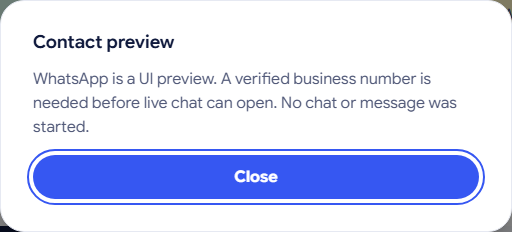
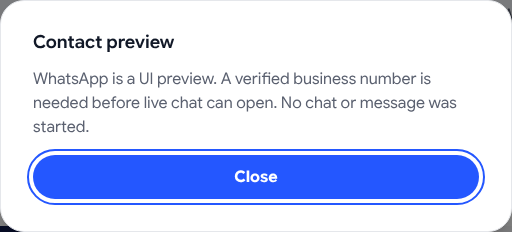
feat(site-1): align the Contact page with the Electric Blue home page
/contact keeps its layout, forms and preview actions, and now uses the
shared site header and footer, a breadcrumb, a home-style hero heading,
and a navy tracking panel that no longer stretches to the office card's
height. The title and meta description target "contact Canadian Plans"
searches, and "All FAQs" links to /faq. On this page the header chat
button jumps to the WhatsApp/phone/email options (SiteHeader gains
chatHref). verify-contact.mjs follows these changes, honours
AUDIT_ORIGIN/PLAYWRIGHT_CHROMIUM_PATH and passes on a production build.

Claude-Session: https://claude.ai/code/session_01R17s2TxKmriEMKu2RGu3yK

diff --git a/apps/site-1/content/contact.ts b/apps/site-1/content/contact.ts
@@ -1,11 +1,5 @@
 import type { CpButtonTone } from '@canadian-plans/ui/canadian-plans';
-import {
-  chromeContent,
-  componentAssets,
-  footerContent,
-  type ChromeContent,
-  type FooterContent,
-} from './components';
+import { componentAssets } from './components';
 
 export type ContactTopic = 'general' | 'sim' | 'mobile' | 'internet' | 'documents' | 'verification';
 export type ContactPreviewKind = 'whatsapp' | 'call' | 'directions';
@@ -22,11 +16,18 @@ interface ContactOption {
 /** Design copy and contact details are preview fixtures, pending business approval. */
 export const contactCopy = {
   previewOnly: true,
-  title: 'Contact & Help | Canadian Plans',
+  title: 'Contact Canadian Plans: WhatsApp, Phone, Email & Surrey Office',
+  description:
+    'Contact Canadian Plans by WhatsApp, phone or email, or visit our Surrey, BC office. Real advisors Monday to Saturday, 9am–9pm Pacific. Track your order without an account.',
   skip: 'Skip to main content',
+  breadcrumb: {
+    label: 'Breadcrumb',
+    separator: '/',
+    items: [{ label: 'Home', href: '/' }, { label: 'Contact' }],
+  },
   hero: {
-    eyebrow: 'Contact & help',
-    title: 'Talk to a real person.',
+    eyebrow: 'Contact Canadian Plans',
+    title: 'Talk to a real person',
     description:
       "No bots, no call-centre maze. You'll reach the same advisors who confirm every order, Mon–Sat, 9am–9pm Pacific.",
     trust: 'Authorized Rogers, Fido and Chatr dealer in Surrey, BC',
@@ -110,7 +111,7 @@ export const contactCopy = {
       { label: 'Change my install date', topic: 'internet' },
       { label: 'Update my documents', topic: 'documents' },
       { label: 'Is this call really from you?', topic: 'verification' },
-      { label: 'All FAQs', href: '/#faq' },
+      { label: 'All FAQs', href: '/faq' },
     ] satisfies readonly (
       { label: string; href: string } | { label: string; topic: ContactTopic }
     )[],
@@ -158,43 +159,4 @@ export const contactAssets = {
     height: 22,
     nodeId: '332:836',
   },
-};
-export const contactChrome: ChromeContent = {
-  ...chromeContent,
-  navigation: [
-    { label: 'Pre-arrival SIM', href: '/pre-arrival-sim' },
-    { label: 'Home Internet', href: '/home-internet' },
-    { label: 'Mobile Plans', href: '/mobile-plans' },
-    { label: 'Guides', href: '/#faq' },
-  ],
-  phone: { ...chromeContent.phone, href: '#contact-options' },
-  track: { ...chromeContent.track, href: '#track-order' },
-  contact: { ...chromeContent.contact, href: '#message-us' },
-  help: { ...chromeContent.help, href: '#quick-help' },
-  promoLink: { ...chromeContent.promoLink, href: '/pre-arrival-sim#plans' },
-};
-export const contactFooter: FooterContent = {
-  ...footerContent,
-  groups: footerContent.groups.map((group) => ({
-    ...group,
-    links: group.links.map((link) => ({
-      ...link,
-      href:
-        group.title === 'Pre-arrival SIM'
-          ? '/pre-arrival-sim#plans'
-          : group.title === 'Home Internet'
-            ? '/home-internet#internet-plans'
-            : group.title === 'Mobile Plans'
-              ? '/mobile-plans#mobile-plans'
-              : link.label === 'Track order'
-                ? '#track-order'
-                : link.label === 'Contact'
-                  ? '#message-us'
-                  : '/#faq',
-    })),
-  })),
-  legal: footerContent.legal.map((link) => ({
-    ...link,
-    href: link.label === 'Privacy' ? '/privacy' : link.label === 'Terms' ? '/terms' : '#message-us',
-  })),
 };

diff --git a/apps/site-1/src/app/(contact)/contact/page.tsx b/apps/site-1/src/app/(contact)/contact/page.tsx
@@ -1,13 +1,14 @@
 import { pageMetadata } from '@/lib/page-metadata';
 import type { Metadata } from 'next';
 import { SkipLink } from '@canadian-plans/ui';
-import { CpAsset, CpImageSlot } from '@canadian-plans/ui/canadian-plans';
-import { contactAssets, contactChrome, contactCopy, contactFooter } from '@content/contact';
-import { Footer, PromoStrip, UtilityBar } from '@/components/shared/chrome';
+import { CpAsset, CpBreadcrumb, CpImageSlot } from '@canadian-plans/ui/canadian-plans';
+import { contactAssets, contactCopy } from '@content/contact';
+import { siteChrome, siteFooter } from '@content/site-chrome';
+import { Footer } from '@/components/shared/chrome';
+import { SiteHeader } from '@/components/shared/site-header';
 import {
   ContactDirections,
   ContactMessageAndHelp,
-  ContactNavigation,
   ContactOptionAction,
   ContactPreviewProvider,
   ContactTrackingForm,
@@ -15,23 +16,35 @@ import {
 
 export const metadata: Metadata = pageMetadata('/contact', {
   title: contactCopy.title,
+  description: contactCopy.description,
   robots: { index: false, follow: false },
 });
 
+/** Electric Blue alignment (15 October 2026): site header/footer, breadcrumb; forms unchanged. */
 export default function ContactPage() {
   return (
     <ContactPreviewProvider>
       <SkipLink className="cp-contact-skip" href="#contact-main">
         {contactCopy.skip}
       </SkipLink>
-      <UtilityBar
-        content={contactChrome}
-        assets={contactAssets}
+      <SiteHeader
         planHref="/pre-arrival-sim#plans"
+        chatHref="#contact-options"
+        content={{
+          ...siteChrome,
+          contact: { ...siteChrome.contact, href: '#message-us' },
+          track: { ...siteChrome.track, href: '#track-order' },
+          promoLink: { ...siteChrome.promoLink, href: '/pre-arrival-sim#plans' },
+        }}
       />
-      <ContactNavigation />
-      <PromoStrip content={contactChrome} />
       <main id="contact-main" tabIndex={-1}>
+        <div className="cp-container cp-cat-page-breadcrumb">
+          <CpBreadcrumb
+            items={contactCopy.breadcrumb.items}
+            label={contactCopy.breadcrumb.label}
+            separator={contactCopy.breadcrumb.separator}
+          />
+        </div>
         <section className="cp-contact-hero cp-container" aria-labelledby="contact-title">
           <p className="cp-contact-eyebrow">{contactCopy.hero.eyebrow}</p>
           <h1 id="contact-title">{contactCopy.hero.title}</h1>
@@ -88,12 +101,7 @@ export default function ContactPage() {
           <ContactMessageAndHelp />
         </div>
       </main>
-      <Footer
-        brand={contactChrome.brand}
-        content={contactFooter}
-        assets={contactAssets}
-        brandHref="/"
-      />
+      <Footer brand="Canadian Plans" content={siteFooter} assets={contactAssets} brandHref="/" />
     </ContactPreviewProvider>
   );
 }

diff --git a/apps/site-1/src/app/(contact)/contact.css b/apps/site-1/src/app/(contact)/contact.css
@@ -23,7 +23,7 @@
   flex-direction: column;
   align-items: flex-start;
   gap: var(--cp-space-16);
-  padding-block: var(--cp-space-32);
+  padding-block: var(--cp-space-8) var(--cp-space-32);
 }
 .cp-contact-eyebrow {
   color: var(--cp-color-blue);
@@ -35,10 +35,10 @@
 }
 .cp-contact-hero h1 {
   max-width: var(--cp-contact-hero-mobile-width);
-  font-size: var(--cp-text-48);
-  font-weight: var(--cp-weight-bold);
-  line-height: var(--cp-contact-display-line);
-  letter-spacing: var(--cp-tracking-3);
+  font-size: var(--cp-text-36);
+  font-weight: var(--cp-weight-extra-bold);
+  line-height: var(--cp-leading-heading);
+  letter-spacing: var(--cp-tracking-tight);
 }
 .cp-contact-hero-description {
   max-width: var(--cp-contact-hero-mobile-width);
@@ -116,7 +116,7 @@
   gap: var(--cp-space-20);
 }
 .cp-contact-tracking {
-  background: var(--cp-color-ink);
+  background: var(--cp-color-navy);
   color: var(--cp-color-white);
 }
 .cp-contact-tracking h2,
@@ -262,7 +262,7 @@
 }
 .cp-contact-track-help {
   align-self: stretch;
-  margin-top: auto;
+  margin-top: var(--cp-space-8);
   padding-top: var(--cp-space-20);
   border-top: var(--cp-border-thin) solid var(--cp-contact-help-line);
   color: var(--cp-color-inverse-muted);
@@ -378,8 +378,7 @@
   }
   .cp-contact-hero h1 {
     max-width: none;
-    font-size: var(--cp-contact-hero-fluid);
-    line-height: var(--cp-leading-display);
+    font-size: var(--cp-text-56);
   }
   .cp-contact-hero-description {
     max-width: none;
@@ -415,14 +414,11 @@
     background: var(--cp-color-white);
   }
   .cp-contact-hero {
-    padding-block: var(--cp-space-72) var(--cp-space-40);
+    padding-block: var(--cp-space-24) var(--cp-space-40);
   }
   .cp-contact-hero-description {
     font-size: var(--cp-text-20);
     line-height: var(--cp-leading-small);
-  }
-  .cp-contact-hero h1 {
-    line-height: var(--cp-contact-desktop-display-line);
   }
   .cp-contact-trust {
     align-items: center;
@@ -441,6 +437,7 @@
     padding-block: var(--cp-space-12);
   }
   .cp-contact-track-office {
+    align-items: start;
     padding-block: 0 var(--cp-space-56);
   }
   .cp-contact-panel {

diff --git a/apps/site-1/src/components/contact/interactive.tsx b/apps/site-1/src/components/contact/interactive.tsx
@@ -25,13 +25,7 @@ import {
   Textarea,
 } from '@canadian-plans/ui';
 import { CpButton, type CpButtonTone } from '@canadian-plans/ui/canadian-plans';
-import {
-  contactAssets,
-  contactChrome,
-  contactCopy,
-  contactTopics,
-  type ContactPreviewKind,
-} from '@content/contact';
+import { contactCopy, contactTopics, type ContactPreviewKind } from '@content/contact';
 import { contactPreviewAction } from '@/app/(contact)/actions';
 import {
   validateContactMessage,
@@ -40,7 +34,6 @@ import {
   type ContactMessageErrors,
   type ContactTrackingErrors,
 } from '@/lib/contact-preview';
-import { Navigation } from '@/components/shared/component-lab-client';
 
 const PreviewContext = createContext<((kind: ContactPreviewKind) => void) | null>(null);
 function useContactPreview() {
@@ -88,21 +81,6 @@ export function ContactPreviewProvider({ children }: { children: ReactNode }) {
         </DialogContent>
       </Dialog>
     </PreviewContext>
-  );
-}
-export function ContactNavigation() {
-  const [menuOpen, setMenuOpen] = useState(false);
-  const preview = useContactPreview();
-  return (
-    <Navigation
-      content={contactChrome}
-      assets={contactAssets}
-      brandHref="/"
-      menuOpen={menuOpen}
-      onMenuOpenChange={setMenuOpen}
-      onAction={focusMessage}
-      onContact={() => preview('whatsapp')}
-    />
   );
 }
 export function ContactOptionAction({

diff --git a/apps/site-1/src/components/shared/site-header.tsx b/apps/site-1/src/components/shared/site-header.tsx
@@ -10,7 +10,16 @@ import { PromoStrip, UtilityBar } from './chrome';
  * Site-wide header for redesigned pages (15 October 2026): utility bar, navigation and
  * promo strip from one content source. The chat button goes to the contact page.
  */
-export function SiteHeader({ content, planHref }: { content: ChromeContent; planHref: string }) {
+export function SiteHeader({
+  content,
+  planHref,
+  chatHref = content.contact.href,
+}: {
+  content: ChromeContent;
+  planHref: string;
+  /** Where the mobile chat button goes; the contact page points it at its own options. */
+  chatHref?: string;
+}) {
   const [menuOpen, setMenuOpen] = useState(false);
   return (
     <>
@@ -25,7 +34,7 @@ export function SiteHeader({ content, planHref }: { content: ChromeContent; plan
           setMenuOpen(false);
           window.location.assign(planHref);
         }}
-        onContact={() => window.location.assign(content.contact.href)}
+        onContact={() => window.location.assign(chatHref)}
       />
       <PromoStrip content={content} />
     </>

diff --git a/apps/site-1/src/app/(contact)/layout.tsx b/apps/site-1/src/app/(contact)/layout.tsx
@@ -1,5 +1,6 @@
 import type { ReactNode } from 'react';
 import { Analytics } from '@/components/analytics';
+import '../redesign.css';
 import './contact.css';
 
 export default function ContactLayout({ children }: { children: ReactNode }) {

diff --git a/apps/site-1/docs/REDESIGN_PROGRESS.md b/apps/site-1/docs/REDESIGN_PROGRESS.md
@@ -38,6 +38,11 @@ ratings are dropped (unverified; owner removed reviews from category pages on 14
 
 ## Verification
 
+**Use a production build** (`pnpm build && npx next start --port 3127`): in this cloud
+container the dev server's HMR websocket is blocked by the proxy and client components do
+not hydrate, so interaction checks fail on `pnpm dev`. The landing and page verify
+scripts default to `http://127.0.0.1:3127`.
+
 `AUDIT_ORIGIN=http://127.0.0.1:3001 PLAYWRIGHT_CHROMIUM_PATH=/opt/pw-browsers/chromium node scripts/verify-landing.mjs <route>`
 (dev server: `pnpm dev`). Checks one h1, no horizontal scroll at 320/390/1440, in-page
 anchors, JSON-LD (no pending answers), axe serious/critical, page errors; saves evidence to
@@ -53,27 +58,27 @@ anchors, JSON-LD (no pending answers), axe serious/critical, page errors; saves 
 
 ## Status
 
-| #   | Page                                                                                         | Status | Notes                                                                        |
-| --- | -------------------------------------------------------------------------------------------- | ------ | ---------------------------------------------------------------------------- |
-| 1   | `/pre-arrival-sim/students`                                                                  | done   | landing kit built; moved to `(landing-arrival)`                              |
-| 2   | `/pre-arrival-sim/from-india`                                                                | done   | old `(category-sim)` route group removed                                     |
-| 3   | `/mobile-plans/rogers`                                                                       | done   | uses `/mobile-plans` browser pre-filtered to Rogers; old route group removed |
-| 4   | `/pre-arrival-sim/toronto-pearson`                                                           | done   |                                                                              |
-| 5   | `/compare/rogers-vs-fido`                                                                    | done   | old airport/compare route group removed                                      |
-| 6   | `/home-internet/ontario`                                                                     | done   | reuses `/home-internet` address check and speed cards                        |
-| 7   | `/home-internet/vancouver`                                                                   | done   | old category-internet route group removed                                    |
-| 8   | `/about`                                                                                     | done   | on the landing kit, with FAQ + JSON-LD                                       |
-| 9   | `/contact`                                                                                   | todo   |                                                                              |
-| 10  | `/faq`                                                                                       | todo   |                                                                              |
-| 11  | `/guides`                                                                                    | todo   |                                                                              |
-| 12  | `/guides/[slug]`                                                                             | todo   |                                                                              |
-| 13  | `/order/pre-arrival`                                                                         | todo   | preview form, stub action                                                    |
-| 14  | `/order/home-internet`                                                                       | todo   | preview form, stub action                                                    |
-| 15  | `/track-order`                                                                               | todo   |                                                                              |
-| 16  | `/plans`, `/plans/[slug]`, `/order`, `/track`                                                | todo   | restyle only, behaviour unchanged                                            |
-| 17  | `/privacy`, `/terms`                                                                         | todo   |                                                                              |
-| 18  | `/accessibility`, `/search`, 404                                                             | todo   |                                                                              |
-| 19  | Category polish: `/pre-arrival-sim`, `/home-internet`, `/mobile-plans`, `/business-internet` | todo   |                                                                              |
+| #   | Page                                                                                         | Status | Notes                                                                                       |
+| --- | -------------------------------------------------------------------------------------------- | ------ | ------------------------------------------------------------------------------------------- |
+| 1   | `/pre-arrival-sim/students`                                                                  | done   | landing kit built; moved to `(landing-arrival)`                                             |
+| 2   | `/pre-arrival-sim/from-india`                                                                | done   | old `(category-sim)` route group removed                                                    |
+| 3   | `/mobile-plans/rogers`                                                                       | done   | uses `/mobile-plans` browser pre-filtered to Rogers; old route group removed                |
+| 4   | `/pre-arrival-sim/toronto-pearson`                                                           | done   |                                                                                             |
+| 5   | `/compare/rogers-vs-fido`                                                                    | done   | old airport/compare route group removed                                                     |
+| 6   | `/home-internet/ontario`                                                                     | done   | reuses `/home-internet` address check and speed cards                                       |
+| 7   | `/home-internet/vancouver`                                                                   | done   | old category-internet route group removed                                                   |
+| 8   | `/about`                                                                                     | done   | on the landing kit, with FAQ + JSON-LD                                                      |
+| 9   | `/contact`                                                                                   | done   | layout and forms kept; site header/footer, breadcrumb, home-style hero, navy tracking panel |
+| 10  | `/faq`                                                                                       | todo   |                                                                                             |
+| 11  | `/guides`                                                                                    | todo   |                                                                                             |
+| 12  | `/guides/[slug]`                                                                             | todo   |                                                                                             |
+| 13  | `/order/pre-arrival`                                                                         | todo   | preview form, stub action                                                                   |
+| 14  | `/order/home-internet`                                                                       | todo   | preview form, stub action                                                                   |
+| 15  | `/track-order`                                                                               | todo   |                                                                                             |
+| 16  | `/plans`, `/plans/[slug]`, `/order`, `/track`                                                | todo   | restyle only, behaviour unchanged                                                           |
+| 17  | `/privacy`, `/terms`                                                                         | todo   |                                                                                             |
+| 18  | `/accessibility`, `/search`, 404                                                             | todo   |                                                                                             |
+| 19  | Category polish: `/pre-arrival-sim`, `/home-internet`, `/mobile-plans`, `/business-internet` | todo   |                                                                                             |
 
 ## Open placeholders and questions for the owner
 
